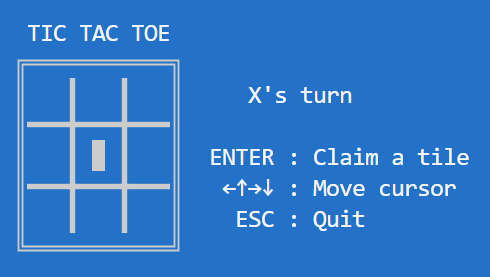
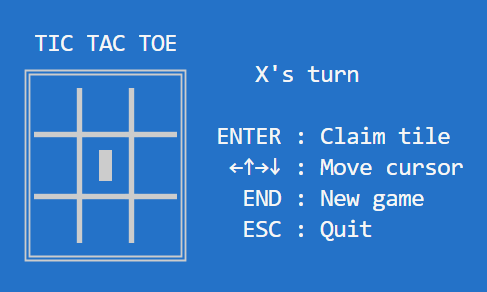
Allow starting new game with `END` in `tui` example

diff --git a/examples/tui/view.rs b/examples/tui/view.rs
@@ -51,22 +51,23 @@ impl View {
    
    /// The total number of tiles on the game board in each direction (columns, rows).
    const NUM_TILES : (u16, u16) = (3, 3);
+   
+   /// The row, column position of the top left corner of the prompt text.
+   const PROMPT_TOP_LEFT : (u16, u16) = (17, 2);
 
    /// Used to pad the characters written in the prompt area.
    const PROMPT_MAX_WIDTH : usize = 20;
 
    /// The text displaying controls to the player.
    const CONTROLS_PROMPT : &'static str = "\
-ENTER : Claim a tile
+ENTER : Claim tile
  ←↑→↓ : Move cursor
+  END : New game
   ESC : Quit";
-   
-   /// The row, column position of the top left corner of the prompt text.
-   const PROMPT_TOP_LEFT : (u16, u16) = (17, 3);
 
-   const GAME_OVER_PROMPT : &'static str = "\
-ENTER: Play again
-  ESC: Quit";
+   const GAME_OVER_PROMPT : &'static str = "
+  END : New game
+  ESC : Quit";
 
    /// Creates and returns a new terminal UI for a Tic Tac Toe game.
    pub fn new(terminal_size : (u16, u16)) -> Self {
@@ -114,8 +115,9 @@ ENTER: Play again
       let mut tile_to_select = self.selected_tile;
 
       match code {
-         KeyCode::Esc => {
-            return Some(Event::Quit);
+         KeyCode::Enter => {
+            // Place a piece on the game board.
+            return Some(Event::TakeTurn(tile_to_select.0, tile_to_select.1));
          },
          KeyCode::Right => {
             tile_to_select.0 = tile_to_select.0.saturating_add(1);
@@ -129,9 +131,11 @@ ENTER: Play again
          KeyCode::Up => {
             tile_to_select.1 = tile_to_select.1.saturating_sub(1);
          },
-         KeyCode::Enter => {
-            // Place a piece on the game board.
-            return Some(Event::TakeTurn(tile_to_select.0, tile_to_select.1));
+         KeyCode::End => {
+            return Some(Event::NewGame)
+         },
+         KeyCode::Esc => {
+            return Some(Event::Quit);
          },
          _ => ()
       }
@@ -143,8 +147,8 @@ ENTER: Play again
    /// Processes input between games of Tic Tac Toe. Returns an [`Event`] that is processed by the main application.
    fn handle_game_over_key_press(&self, code : KeyCode) -> Option<Event> {
       match code {
+         KeyCode::End => Some(Event::NewGame),
          KeyCode::Esc => Some(Event::Quit),
-         KeyCode::Enter => Some(Event::NewGame),
          _ => None
       }
    }
